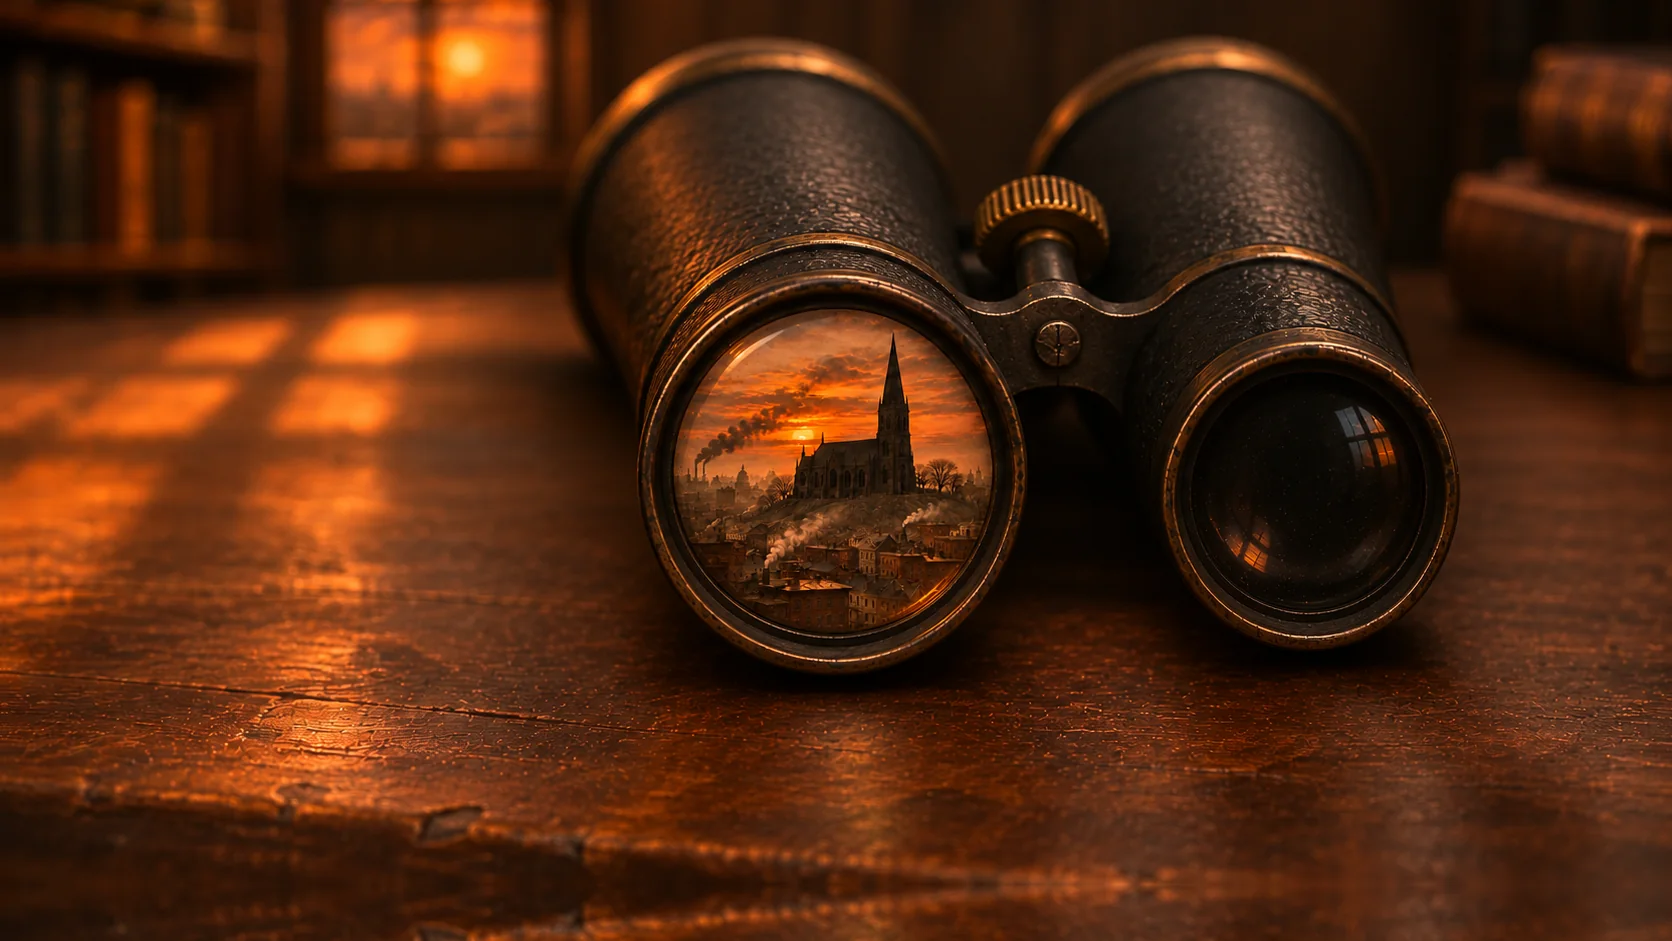
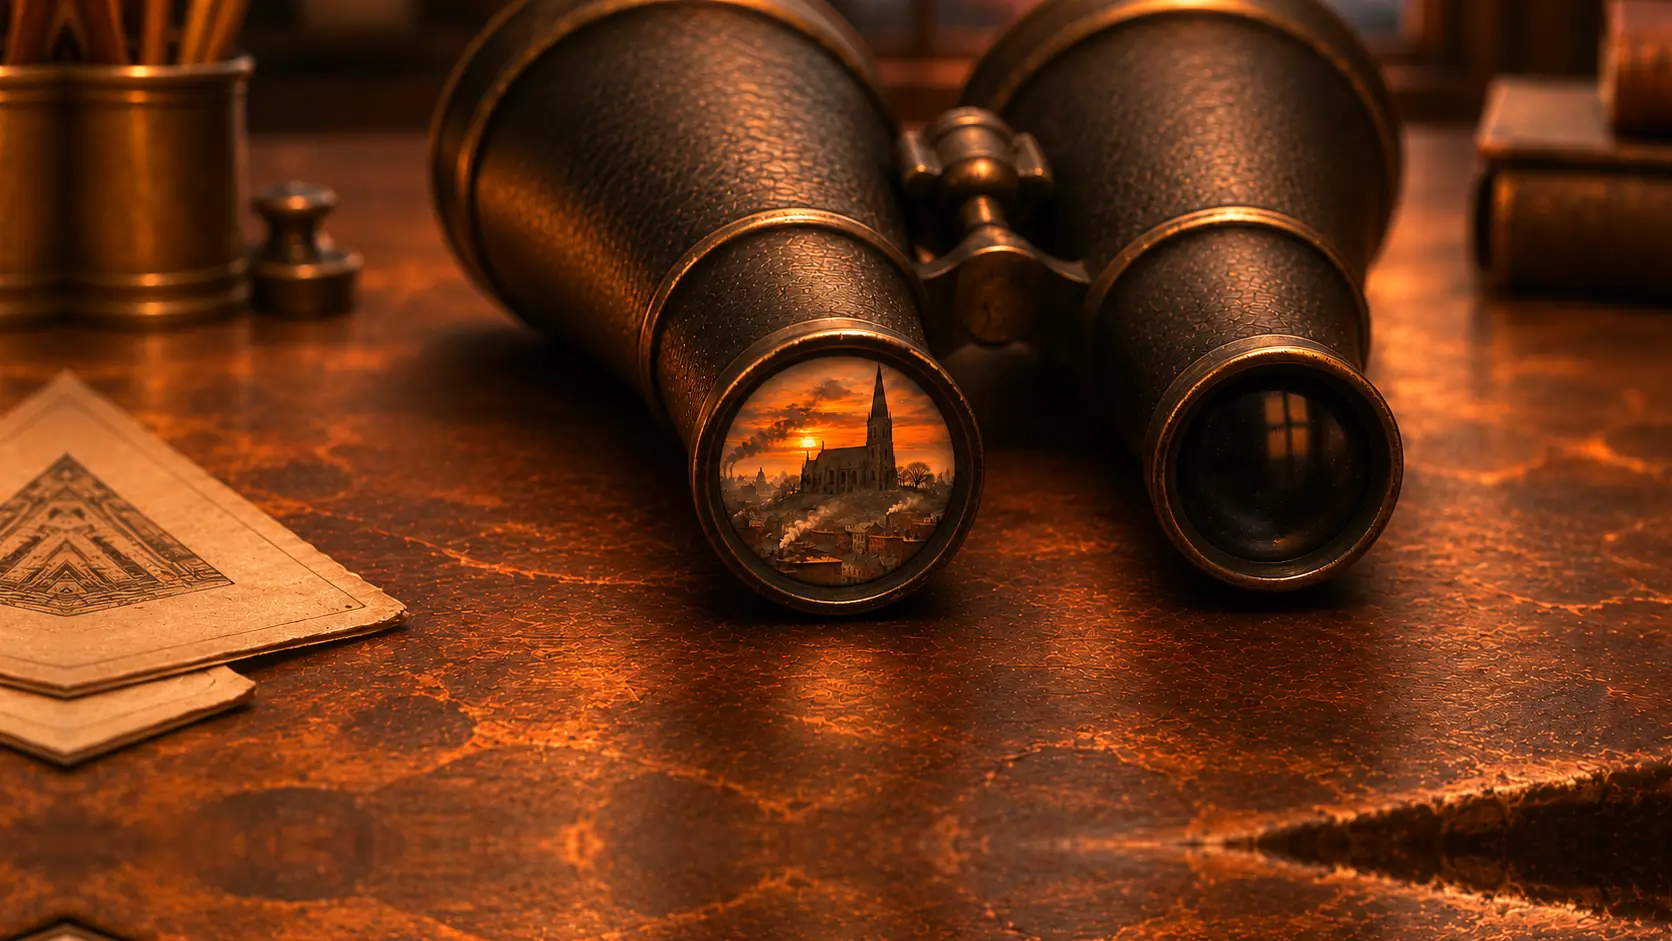
Blake's study: the pointer racks the tilt-shift blur and shifts the view like the moor (depth map, objects move with the floor); clearer eyepiece close-up; cache b62

diff --git a/index.html b/index.html
@@ -15,7 +15,7 @@
 html, body { margin: 0; height: 100%; background: var(--bg); color: var(--ink); overflow: hidden; }
 body { font-family: Cormorant, Georgia, serif; -webkit-font-smoothing: antialiased; cursor: default; user-select: none; -webkit-user-select: none; touch-action: none; }
 canvas { position: fixed; inset: 0; width: 100%; height: 100%; display: block; }
-#bay, #lab { opacity: 0; }
+#bay, #lab, #study { opacity: 0; }
 .cap { position: fixed; left: 50%; bottom: 12%; transform: translateX(-50%); width: min(92vw, 760px); text-align: center;
   font-style: italic; font-weight: 400; font-size: clamp(20px, 2.6vw, 30px); line-height: 1.35; letter-spacing: .01em;
   opacity: 0; transition: opacity 1.4s ease; pointer-events: none; text-shadow: 0 0 18px #000; text-wrap: balance; }
@@ -74,6 +74,7 @@ canvas { position: fixed; inset: 0; width: 100%; height: 100%; display: block; }
 <body>
 <canvas id="bay"></canvas>
 <canvas id="lab"></canvas>
+<canvas id="study"></canvas>
 <canvas id="c"></canvas>
 <div class="cap" id="cap"></div>
 <div class="place" id="place"></div>
@@ -109,6 +110,7 @@ canvas { position: fixed; inset: 0; width: 100%; height: 100%; display: block; }
     out: 0,           // the view pulling out of the glasses into Blake's study, 0 to 1
     clear: 0,         // the ring clearing it on a later heartbeat, 0 to 1
     lab: 0,           // the lab is showing
+    study: 0,         // Blake's study is showing
     pt: 0,            // the point's visibility
     py: .5,           // its height on screen, as a fraction
     lines: 0,         // how far the converging lines have drawn
@@ -136,10 +138,13 @@ canvas { position: fixed; inset: 0; width: 100%; height: 100%; display: block; }
   // ---- the bay in 3D: loaded once the way in is clicked, drawn under this canvas once it shows ----
   let bay = null, bayLoad = null;
   const q0 = new URLSearchParams(location.search);
-  const loadBay = () => bayLoad || (bayLoad = import('./bay.js?v=' + (q0.get('v') || 'b61')).then(m => { bay = m.createBay($('bay')); window.observerBay = bay; bay.ready.then(() => setTimeout(() => bay.warm(quiet), 400)); return bay; }).catch(e => { console.warn('bay', e); return null; }));
+  const loadBay = () => bayLoad || (bayLoad = import('./bay.js?v=' + (q0.get('v') || 'b62')).then(m => { bay = m.createBay($('bay')); window.observerBay = bay; bay.ready.then(() => setTimeout(() => bay.warm(quiet), 400)); return bay; }).catch(e => { console.warn('bay', e); return null; }));
   // ---- Ruth's lab: loaded while the ink closes over the bay, shown as it draws back ----
   let lab = null, labLoad = null;
-  const loadLab = () => labLoad || (labLoad = import('./lab.js?v=' + (q0.get('v') || 'b61')).then(m => { lab = m.createLab($('lab')); window.observerLab = lab; return lab.ready.then(() => lab); }).catch(e => { console.warn('lab', e); return null; }));
+  const loadLab = () => labLoad || (labLoad = import('./lab.js?v=' + (q0.get('v') || 'b62')).then(m => { lab = m.createLab($('lab')); window.observerLab = lab; return lab.ready.then(() => lab); }).catch(e => { console.warn('lab', e); return null; }));
+  // ---- Blake's study: loaded while the iris video plays, shown once the view has pulled out of the field glasses ----
+  let study = null, studyLoad = null;
+  const loadStudy = () => studyLoad || (studyLoad = import('./study.js?v=' + (q0.get('v') || 'b62')).then(m => { study = m.createStudy($('study')); window.observerStudy = study; return study.ready.then(() => study); }).catch(e => { console.warn('study', e); return null; }));
   const P = { x: 0, y: 0 };   // the point on screen this frame
   // the bay's shaders are made ready while the opening is quiet: between pings, with no line, eye or pan moving; once the
   // bay is showing, at once
@@ -447,7 +452,7 @@ canvas { position: fixed; inset: 0; width: 100%; height: 100%; display: block; }
     return { vid, ep, wide, outline };
   })());
   // the field glasses' near lens in the close photograph, and the same lens on the desk in the wide one (pixels of 1672 x 941)
-  const EP = { x: 833, y: 470, r: 160 }, WIDE = { x: 827, y: 485, r: 6.5 };   // study_wide_fullbleed_b, the near eyepiece
+  const EP = { x: 838, y: 470, r: 115 }, WIDE = { x: 827, y: 485, r: 6.5 };   // study_wide_fullbleed_b, the near eyepiece
   const burstLines = Array.from({ length: 36 }, (_, i) => ({ a: i / 36 * Math.PI * 2 + Math.random() * .2, sp: .9 + Math.random() * .7, trail: [] }));
   // where a 1672 x 941 photograph shows when it covers the screen
   const coverOf = () => { const sc = Math.max(W / 1672, H / 941); return { sc, ox: (W - 1672 * sc) / 2, oy: (H - 941 * sc) / 2 }; };
@@ -512,7 +517,7 @@ canvas { position: fixed; inset: 0; width: 100%; height: 100%; display: block; }
       }
     }
     // her eye: the video, covering the screen; its last frame has the pupil (and the steeple in it) centred
-    if (S.vid > 0) {
+    if (S.vid > 0 && !(S.study > 0)) {
       g.globalAlpha = 1; g.globalCompositeOperation = 'source-over';
       const vsc = Math.max(W / 960, H / 540), vw = 960 * vsc, vh = 540 * vsc;
       const pupilR = .24 * vh, cx2 = W / 2, cy2 = H / 2;
@@ -587,7 +592,10 @@ canvas { position: fixed; inset: 0; width: 100%; height: 100%; display: block; }
     const pointDy = openingCam.y * H * .0015 * openingDepth;
     const eyeDx = openingCam.x * W * .003 * openingDepth;
     const eyeDy = openingCam.y * H * .0025 * openingDepth;
-    if (lab && S.lab > 0) {
+    if (study && S.study > 0) {
+      study.render(dt);
+      g.clearRect(0, 0, W, H);
+    } else if (lab && S.lab > 0) {
       lab.render(dt);
       const p = lab.st.lift > 0 ? lab.stoneScreen() : lab.screen(); cx = p.x; cy = p.y;   // the ping rides with the stone as it lifts
       g.clearRect(0, 0, W, H);
@@ -835,6 +843,7 @@ canvas { position: fixed; inset: 0; width: 100%; height: 100%; display: block; }
     if (e.pointerType === 'mouse') { mouse.x = e.clientX; mouse.y = e.clientY; mouse.on = true; }
     // the pointer racks the bay's focus
     if (bay) { bay.look.x = Math.max(-1, Math.min(1, e.clientX / W * 2 - 1)); bay.look.y = Math.max(-1, Math.min(1, e.clientY / H * 2 - 1)); }
+    if (study) study.setPointer(Math.max(-1, Math.min(1, e.clientX / W * 2 - 1)), Math.max(-1, Math.min(1, e.clientY / H * 2 - 1)));
     if (lab) lab.setPointer(Math.max(-1, Math.min(1, e.clientX / W * 2 - 1)), Math.max(-1, Math.min(1, e.clientY / H * 2 - 1)));
   });
   document.addEventListener('mouseleave', () => { mouse.on = false; });
@@ -885,6 +894,13 @@ canvas { position: fixed; inset: 0; width: 100%; height: 100%; display: block; }
     // nothing but the way in; its click is what lets a browser play the sound
     const b = $('begin'); await wait(400); b.classList.add('on'); b.focus({ preventScroll: true });
     if (q0.get('at') === 'bay') { b.remove(); S.pt = 1; skipping = false; loadBay(); await bayScene(); return; }
+    if (q0.get('at') === 'iris') {   // for tests: from the end of the iris video through the pull-out into the study
+      b.remove(); S.pt = 0; skipping = false; p4Ready = await loadP4(); loadStudy(); await loadStudy();
+      P4vid().currentTime = 2.99; S.vid = 1; await wait(800);
+      window.__irisGo = true; await tween('flick', 1, 600, k => k); await wait(500); await tween('out', 1, 5200, k => k);
+      study.render(0); $('study').style.opacity = 1; S.study = 1; return;
+    }
+    if (q0.get('at') === 'study') { b.remove(); S.pt = 0; skipping = false; if (await loadStudy()) { $('study').style.opacity = 1; S.study = 1; } return; }
     if (q0.get('at') === 'lab') { b.remove(); S.pt = 1; S.bay = 1; S.dark = 1; skipping = false; if (await loadLab()) await labScene(); return; }
     await new Promise(res => b.addEventListener('click', e => { e.stopPropagation(); if (want) { startSound(); play('tremble'); } loadBay(); res(); }, { once: true }));
     b.blur(); b.classList.add('tremble'); await wait(500);
@@ -1059,6 +1075,7 @@ canvas { position: fixed; inset: 0; width: 100%; height: 100%; display: block; }
     await tween('vid', 1, 400);
     // the lab is done: let it go
     S.lab = 0; S.pt = 0; release('blake'); lab.dispose(); $('lab').remove(); lab = null; window.observerLab = null;
+    loadStudy();
     await P4vid().play().catch(() => {});
     await new Promise(r => { const v = P4vid(); if (v.ended) r(); else { v.addEventListener('ended', r, { once: true }); setTimeout(r, 3600); } });
     // the steeple in her pupil flickers, fast, in and out with the field glasses' lens, then holds on the glasses
@@ -1066,6 +1083,8 @@ canvas { position: fixed; inset: 0; width: 100%; height: 100%; display: block; }
     await wait(500);
     // the view pulls out of the glasses into Blake's study
     await tween('out', 1, 5200, k => k);
+    // the study, live: the pointer shifts the view a little and racks the focus, as on the moor
+    if (await loadStudy()) { study.render(0); $('study').style.opacity = 1; S.study = 1; }
     release('iris');
   }
 })();

diff --git a/study.js b/study.js
@@ -1,0 +1,75 @@
+// Robert Blake's study on College Hill, 1935: a still photograph with real depth, shifted a little by the pointer as on
+// the moor (the whole room about 2%, each thing moving with the floor it stands on) and racked into focus where it rests.
+import * as THREE from 'three';
+
+const PLATE = { w: 1672, h: 941 };
+const SHIFT_BASE = .35, SHIFT_DEPTH = .15;   // all of the room moves with the pointer, near parts a little more
+
+export function createStudy(canvas) {
+  const mobile = matchMedia('(pointer: coarse)').matches;
+  const renderer = new THREE.WebGLRenderer({ canvas, antialias: false, powerPreference: 'high-performance' });
+  renderer.setPixelRatio(Math.min(devicePixelRatio || 1, mobile ? 1.5 : 2));
+  renderer.outputColorSpace = THREE.SRGBColorSpace;
+  let W = 1, H = 1, coverX = 1, coverY = 1;
+  const loader = new THREE.TextureLoader();
+  const tex = url => loader.loadAsync(url).then(t => { t.minFilter = THREE.LinearFilter; t.generateMipmaps = false; return t; });
+  const u = {
+    plate: { value: null }, depth: { value: null }, shift: { value: null },
+    cover: { value: new THREE.Vector2(1, 1) }, sceneCam: { value: new THREE.Vector2() }, focusUv: { value: new THREE.Vector2(.5, .5) },
+    resolution: { value: new THREE.Vector2(1, 1) }, amount: { value: 0 },
+  };
+  const ready = Promise.all([tex('models/web/study_wide.webp'), tex('models/web/study_depth.jpg'), tex('models/web/study_shift.jpg')]).then(([p, d, s]) => {
+    p.colorSpace = THREE.SRGBColorSpace; u.plate.value = p; u.depth.value = d; u.shift.value = s;
+  });
+  const quad = new THREE.Mesh(new THREE.PlaneGeometry(2, 2), new THREE.ShaderMaterial({
+    uniforms: u, depthTest: false, depthWrite: false,
+    vertexShader: `varying vec2 vUv; void main() { vUv = uv; gl_Position = vec4(position.xy, 0.0, 1.0); }`,
+    fragmentShader: `uniform sampler2D plate, depth, shift; uniform vec2 cover, sceneCam, focusUv, resolution; uniform float amount; varying vec2 vUv;
+      // the shift map is flattened, so the desk, chair and glasses move as one with the floor they stand on
+      vec3 room(vec2 s) { vec2 p = (s - .5) * cover + .5; float layer = texture2D(shift, p).r;
+        return texture2D(plate, p - sceneCam * (${SHIFT_BASE.toFixed(2)} + ${SHIFT_DEPTH.toFixed(2)} * layer)).rgb; }
+      void main() {
+        vec3 sharp = room(vUv);
+        float here = texture2D(depth, (vUv - .5) * cover + .5).r, pointed = texture2D(depth, (focusUv - .5) * cover + .5).r;
+        float blur = max(smoothstep(.045, .30, abs(here - pointed)) * .9, smoothstep(.08, .36, abs(vUv.y - focusUv.y)) * .8) * amount;
+        vec2 px = vec2(1.0) / resolution * blur * 9.0;
+        float turn = fract(sin(dot(gl_FragCoord.xy, vec2(12.9898, 78.233))) * 43758.5453) * 6.2831853;
+        vec3 soft = vec3(0.0);
+        for (int i = 0; i < 16; i++) { float a = float(i) * 2.39996323 + turn, r = sqrt((float(i) + .5) / 16.0); soft += room(vUv + px * r * vec2(cos(a), sin(a))); }
+        gl_FragColor = vec4(mix(sharp, soft / 16.0, blur), 1.0);
+        #include <colorspace_fragment>
+      }`,
+  }));
+  const scene = new THREE.Scene(), cam = new THREE.OrthographicCamera(-1, 1, 1, -1, 0, 1); scene.add(quad);
+  const resize = () => {
+    W = canvas.clientWidth || innerWidth; H = canvas.clientHeight || innerHeight;
+    renderer.setSize(W, H, false); u.resolution.value.set(W, H);
+    const a = W / H, pa = PLATE.w / PLATE.h;
+    coverX = a > pa ? 1 : a / pa; coverY = a > pa ? pa / a : 1; u.cover.value.set(coverX, coverY);
+  };
+  resize(); addEventListener('resize', resize);
+
+  const look = { x: 0, y: 0 }, view = { x: 0, y: 0 }, focusAt = new THREE.Vector2(.5, .5);
+  let time = 0, pointerActive = false, heldFocus = null;
+  const render = dt => {
+    time += dt;
+    const idleX = Math.sin(time * .17) * .55, idleY = Math.sin(time * .11 + 1.3) * .35, ease = 1 - Math.exp(-dt * 4);
+    view.x += ((pointerActive ? look.x : idleX) - view.x) * ease; view.y += ((pointerActive ? look.y : idleY) - view.y) * ease;
+    u.sceneCam.value.set(view.x * .022, -view.y * .014);
+    const fx = heldFocus ? heldFocus.x : pointerActive ? (look.x + 1) * .5 : .5, fy = heldFocus ? heldFocus.y : pointerActive ? (1 - look.y) * .5 : .5;
+    focusAt.x += (fx - focusAt.x) * (1 - Math.exp(-dt * 8)); focusAt.y += (fy - focusAt.y) * (1 - Math.exp(-dt * 8));
+    u.focusUv.value.copy(focusAt);
+    // it comes in sharp, matching the still it takes over from, and the focus settles in over two seconds
+    u.amount.value = Math.min(1, time / 2);
+    renderer.render(scene, cam);
+  };
+  const setPointer = (x, y) => { pointerActive = true; look.x = x; look.y = y; };
+  // for tests: hold the focus still so frames at different pointer positions differ only by the shift
+  const holdFocus = (x, y) => { heldFocus = x == null ? null : { x, y }; };
+  const dispose = () => {
+    removeEventListener('resize', resize);
+    for (const k of ['plate', 'depth', 'shift']) if (u[k].value) u[k].value.dispose();
+    quad.geometry.dispose(); quad.material.dispose(); renderer.dispose(); renderer.forceContextLoss();
+  };
+  return { render, ready, setPointer, holdFocus, dispose, renderer };
+}
